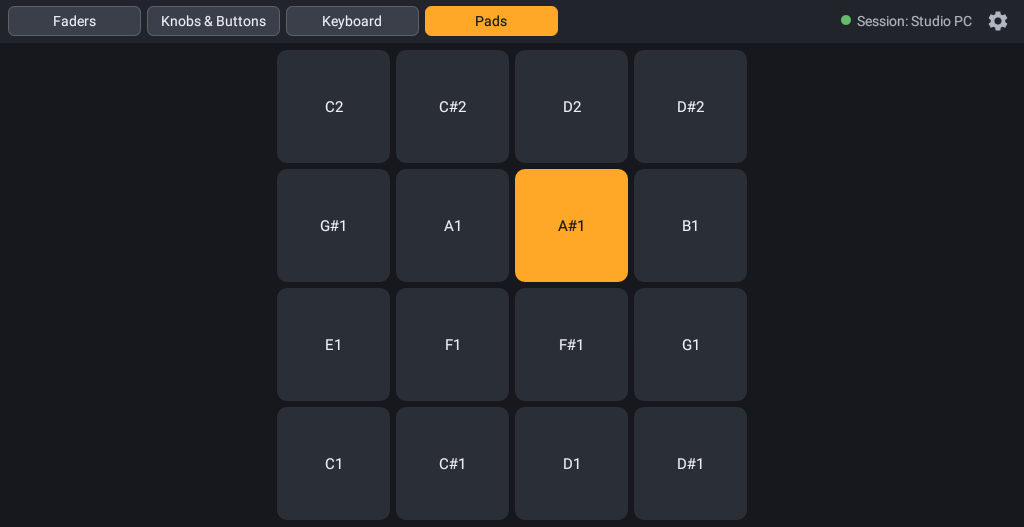
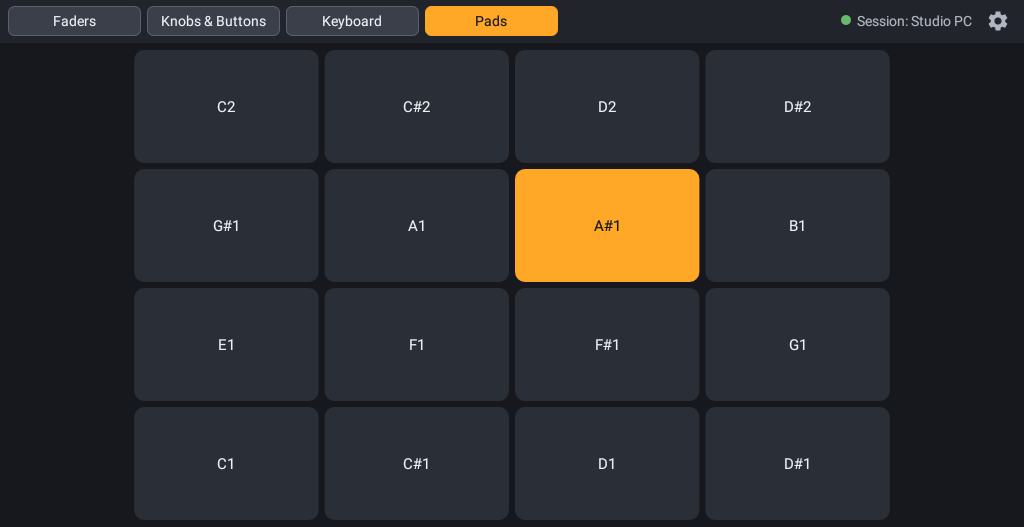
Rectangular Pads on all screens, not only phones

diff --git a/app/src/main/java/com/duddex/faderling/PadGridView.kt b/app/src/main/java/com/duddex/faderling/PadGridView.kt
@@ -11,7 +11,7 @@ import android.view.MotionEvent
 import android.view.View
 
 /**
- * MPC-style 4×4 grid of square Pads, centred in the view. Every touch on a Pad triggers it (also while
+ * MPC-style 4×4 grid of Pads (up to 1.6 times wider than tall), centred in the view. Every touch on a Pad triggers it (also while
  * another finger holds it); a Pad is released when its last finger lifts. Sliding onto other Pads does nothing.
  */
 class PadGridView(context: Context) : View(context) {
@@ -24,10 +24,6 @@ class PadGridView(context: Context) : View(context) {
     var listener: Listener? = null
 
     var names: List<String> = emptyList()
-        set(v) { field = v; invalidate() }
-
-    /** Let Pads become wider than tall to use the room on low, wide screens. */
-    var stretch: Boolean = false
         set(v) { field = v; invalidate() }
 
     private val density = resources.displayMetrics.density
@@ -46,8 +42,8 @@ class PadGridView(context: Context) : View(context) {
     }
     private val rect = RectF()
 
-    private val cellWidth get() = Pads.cellSize(width.toFloat(), height.toFloat(), stretch).first
-    private val cellHeight get() = Pads.cellSize(width.toFloat(), height.toFloat(), stretch).second
+    private val cellWidth get() = Pads.cellSize(width.toFloat(), height.toFloat()).first
+    private val cellHeight get() = Pads.cellSize(width.toFloat(), height.toFloat()).second
     private val left get() = (width - cellWidth * Pads.COLUMNS) / 2
     private val top get() = (height - cellHeight * Pads.ROWS) / 2
 

diff --git a/app/src/main/java/com/duddex/faderling/Pads.kt b/app/src/main/java/com/duddex/faderling/Pads.kt
@@ -21,16 +21,13 @@ object Pads {
     /** Pad index at a grid position; row 0 is the top row, Pad 0 is bottom left, counting left to right, bottom to top. */
     fun indexAt(row: Int, column: Int): Int = (ROWS - 1 - row) * COLUMNS + column
 
-    /** Widest a stretched Pad may become relative to its height. */
+    /** Widest a Pad may become relative to its height. */
     const val MAX_STRETCH = 1.6f
 
-    /**
-     * Width and height of one Pad cell in a [width] × [height] area. Normally square; with [stretch] the cells
-     * use the extra width, up to [MAX_STRETCH] times their height.
-     */
-    fun cellSize(width: Float, height: Float, stretch: Boolean): Pair<Float, Float> {
+    /** Width and height of one Pad cell in a [width] × [height] area; Pads use spare width up to [MAX_STRETCH] times their height. */
+    fun cellSize(width: Float, height: Float): Pair<Float, Float> {
         val cellHeight = minOf(height / ROWS, width / COLUMNS)
-        val cellWidth = if (stretch) minOf(width / COLUMNS, cellHeight * MAX_STRETCH) else cellHeight
+        val cellWidth = minOf(width / COLUMNS, cellHeight * MAX_STRETCH)
         return cellWidth to cellHeight
     }
 }

diff --git a/app/src/main/java/com/duddex/faderling/MainActivity.kt b/app/src/main/java/com/duddex/faderling/MainActivity.kt
@@ -38,7 +38,7 @@ class MainActivity : Activity(), ControlListener, KeyboardView.Listener, PadGrid
     private var keyboardSettings = KeyboardSettings()
     private var lowestNote = Keyboard.DEFAULT_LOWEST_NOTE
 
-    /** Low screen (phone in landscape, split screen): one-octave Keyboard and stretched Pads. */
+    /** Low screen (phone in landscape, split screen): one-octave Keyboard. */
     private val compact by lazy { ScreenLayout.isCompact(resources.configuration.screenHeightDp) }
 
     /** Key index → note and channel it was started with, so its Note Off matches even after an octave shift. */
@@ -84,10 +84,7 @@ class MainActivity : Activity(), ControlListener, KeyboardView.Listener, PadGrid
         octaveUp = findViewById<TextView>(R.id.octaveUp).apply { setOnClickListener { shiftOctave(1) } }
         showKeyboardRange()
 
-        padGrid = PadGridView(this).apply {
-            listener = this@MainActivity
-            stretch = compact
-        }
+        padGrid = PadGridView(this).apply { listener = this@MainActivity }
         findViewById<FrameLayout>(R.id.padsPage).addView(padGrid)
 
         showPage(savedInstanceState?.getInt(STATE_PAGE) ?: 0)

diff --git a/app/src/test/java/com/duddex/faderling/PadsTest.kt b/app/src/test/java/com/duddex/faderling/PadsTest.kt
@@ -29,19 +29,14 @@ class PadsTest {
     }
 
     @Test
-    fun `Pads are square unless stretched`() {
-        assertEquals(100f to 100f, Pads.cellSize(width = 1000f, height = 400f, stretch = false))
+    fun `Pads use spare width up to 1_6 times their height`() {
+        assertEquals(160f to 100f, Pads.cellSize(width = 1000f, height = 400f))
+        assertEquals(125f to 100f, Pads.cellSize(width = 500f, height = 400f))
     }
 
     @Test
-    fun `stretched Pads use the width up to 1_6 times their height`() {
-        assertEquals(160f to 100f, Pads.cellSize(width = 1000f, height = 400f, stretch = true))
-        assertEquals(125f to 100f, Pads.cellSize(width = 500f, height = 400f, stretch = true))
-    }
-
-    @Test
-    fun `stretch does nothing when the area is taller than wide`() {
-        assertEquals(50f to 50f, Pads.cellSize(width = 200f, height = 400f, stretch = true))
+    fun `Pads stay square when the area is taller than wide`() {
+        assertEquals(50f to 50f, Pads.cellSize(width = 200f, height = 400f))
     }
 
     @Test

diff --git a/README.md b/README.md
@@ -25,7 +25,7 @@ An Android app that turns a tablet into pages of MIDI controls – 10 faders, 8 
   - **Faders**: 10 vertical faders that glide to the touched position instead of jumping
   - **Knobs & Buttons**: two rows of 4 knobs (drag up/down, relative, no jumps) above a row of 8 square buttons
   - **Keyboard**: 25 keys (two octaves, C to C) sending Note On/Note Off; chords and sliding across keys (glissando); *Oct −/Oct +* shift the range, shown in Ableton's note names (default C2–C4, i.e. notes 48–72)
-  - **Pads**: 4×4 MPC-style drum pads sending Note On/Note Off on channel 10, laid out like an Ableton Drum Rack (notes 36–51, C1 bottom left); every touch retriggers (two-finger rolls), sliding onto other Pads does nothing
+  - **Pads**: 4×4 MPC-style drum pads (rectangular, up to 1.6 times wider than tall, to use the screen width) sending Note On/Note Off on channel 10, laid out like an Ableton Drum Rack (notes 36–51, C1 bottom left); every touch retriggers (two-finger rolls), sliding onto other Pads does nothing
 - Buttons are **Momentary** (on while held) or **Latch** (each press flips on/off); they send 127 for on, 0 for off
 - 7-bit CC (0–127), send-only, landscape
 - Every Control re-sends its final value shortly after release, and every Note Off is sent twice, to make up for lost Wi-Fi packets; held notes are released when you switch Pages or leave the app
@@ -35,7 +35,7 @@ An Android app that turns a tablet into pages of MIDI controls – 10 faders, 8 
 - Session status shown on the main screen
 - Keeps the screen on while a Page is shown (not on the settings screen, where the normal screen timeout applies); plug the tablet in for longer sessions
 - Runs on Android 5.1 (API 22) and newer
-- Works on phones too: on low screens (less than 450 dp high, e.g. a phone in landscape) the Keyboard shows one octave (C3–C4) with wider Keys and the Pads stretch into rectangles; tablets keep the regular layout
+- Works on phones too: on low screens (less than 450 dp high, e.g. a phone in landscape) the Keyboard shows one octave (C3–C4) with wider Keys; tablets keep two octaves
 
 ## Build and install
 

diff --git a/GLOSSARY.md b/GLOSSARY.md
@@ -53,7 +53,7 @@ _Avoid_: Note
 ### Pads
 
 **Pad**:
-One of 16 square drum pads in an MPC-style 4×4 grid; each touch sends Note On for its note, lifting the last finger sends Note Off. It is not a Control.
+One of 16 drum pads in an MPC-style 4×4 grid; each touch sends Note On for its note, lifting the last finger sends Note Off. It is not a Control.
 _Avoid_: Drum, trigger, button
 
 **Pad Assignment**:
